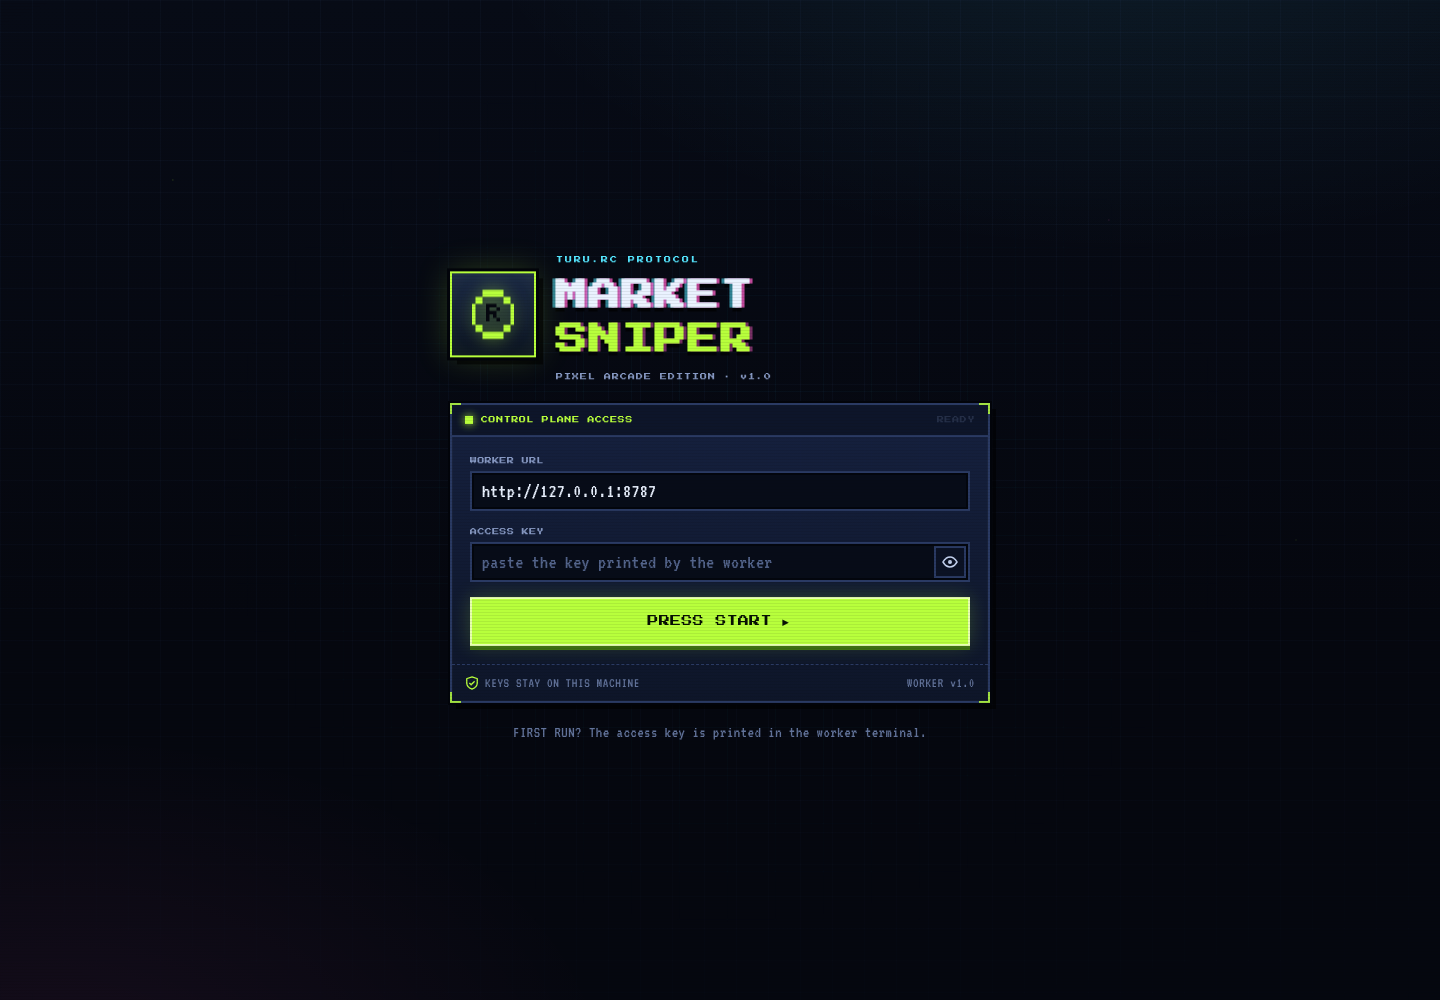
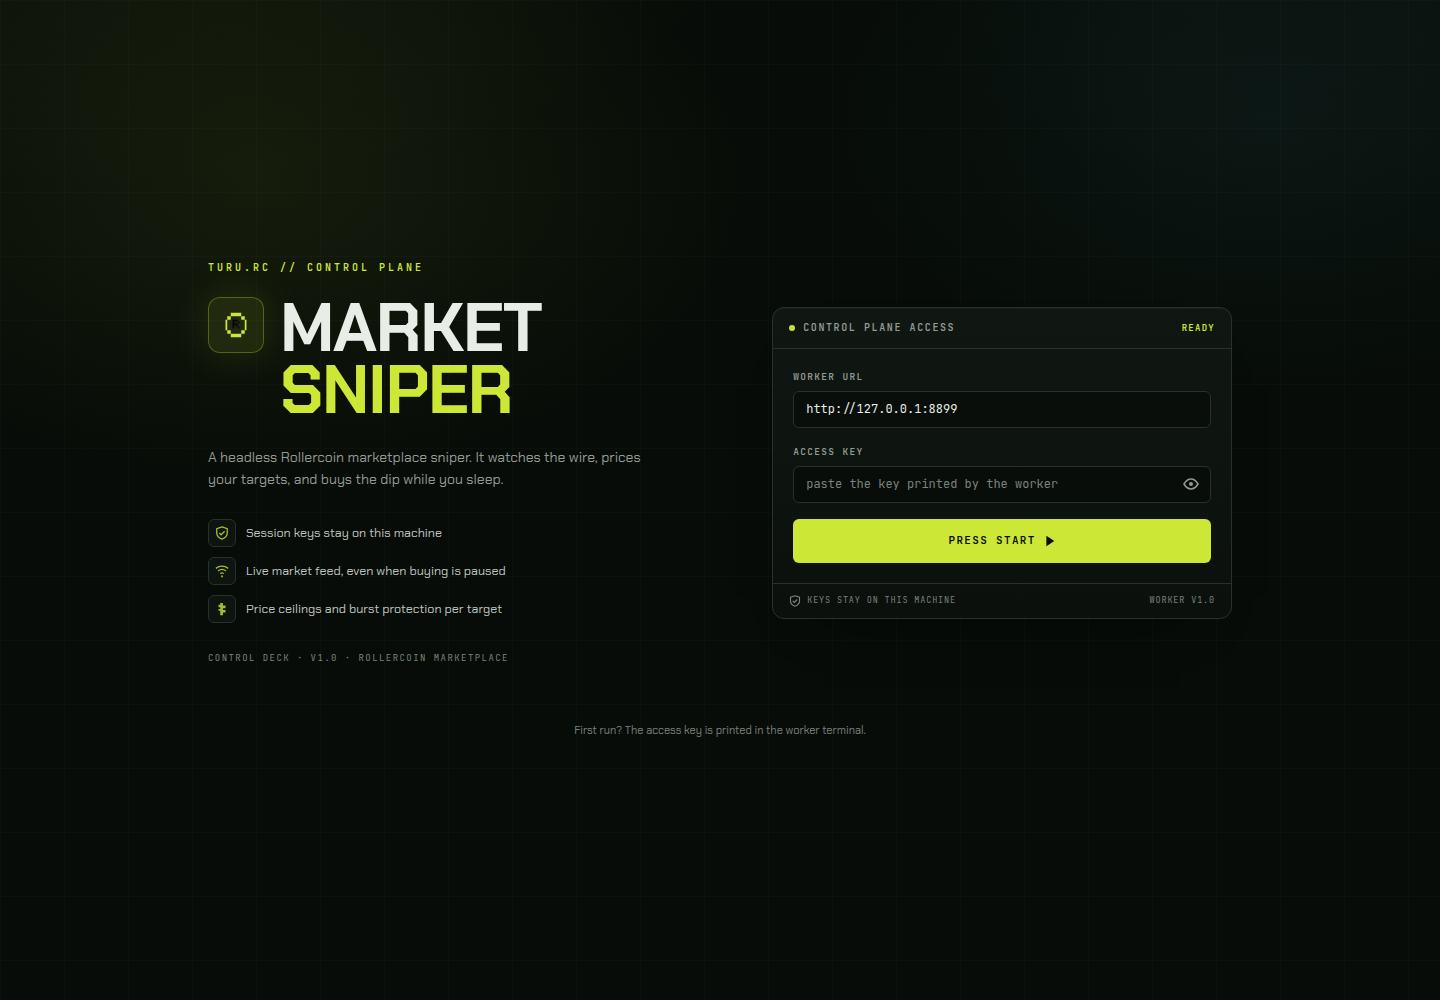
docs: Update preview screenshots for the new control deck
Refresh the desktop, mobile and boot-screen captures and adjust README
copy for the night-cabinet theme and Tailwind-based stylesheet.

diff --git a/README.md b/README.md
@@ -1,6 +1,6 @@
 # TURU.RC // MARKET SNIPER
 
-Headless **Rollercoin marketplace sniper** dengan control deck bergaya pixel arcade.
+Headless **Rollercoin marketplace sniper** dengan control deck bergaya night cabinet, dibangun dengan React 19 + Tailwind CSS v4.
 Dulu `trade.js` harus ditempel di console browser dan ikut melambat saat tab inactive.
 Sekarang engine berjalan sebagai proses Node.js terpisah; browser hanya menjadi **data plane**
 untuk login, mengatur target, memantau market, dan melihat loot.
@@ -776,7 +776,7 @@ Total 54 test; integration test memakai port acak dan data directory sementara.
 │       ├── useToasts.js
 │       ├── components/      # PriceChart (Recharts), modals
 │       ├── lib/             # client, format, sound
-│       └── styles.css       # tema pixel arcade
+│       └── styles.css       # entry Tailwind v4 + token desain
 ├── public/                  # aset statis (bridge.js, favicon, fallback)
 ├── dist/                    # hasil build Vite yang disajikan worker
 ├── src/
@@ -844,4 +844,4 @@ Total 54 test; integration test memakai port acak dan data directory sementara.
 
 ---
 
-Original bot by **@nopaleon.log** / **@n0paleon** · arcade edition. Not affiliated with Rollercoin.
+Original bot by **@nopaleon.log** / **@n0paleon**. Not affiliated with Rollercoin.
